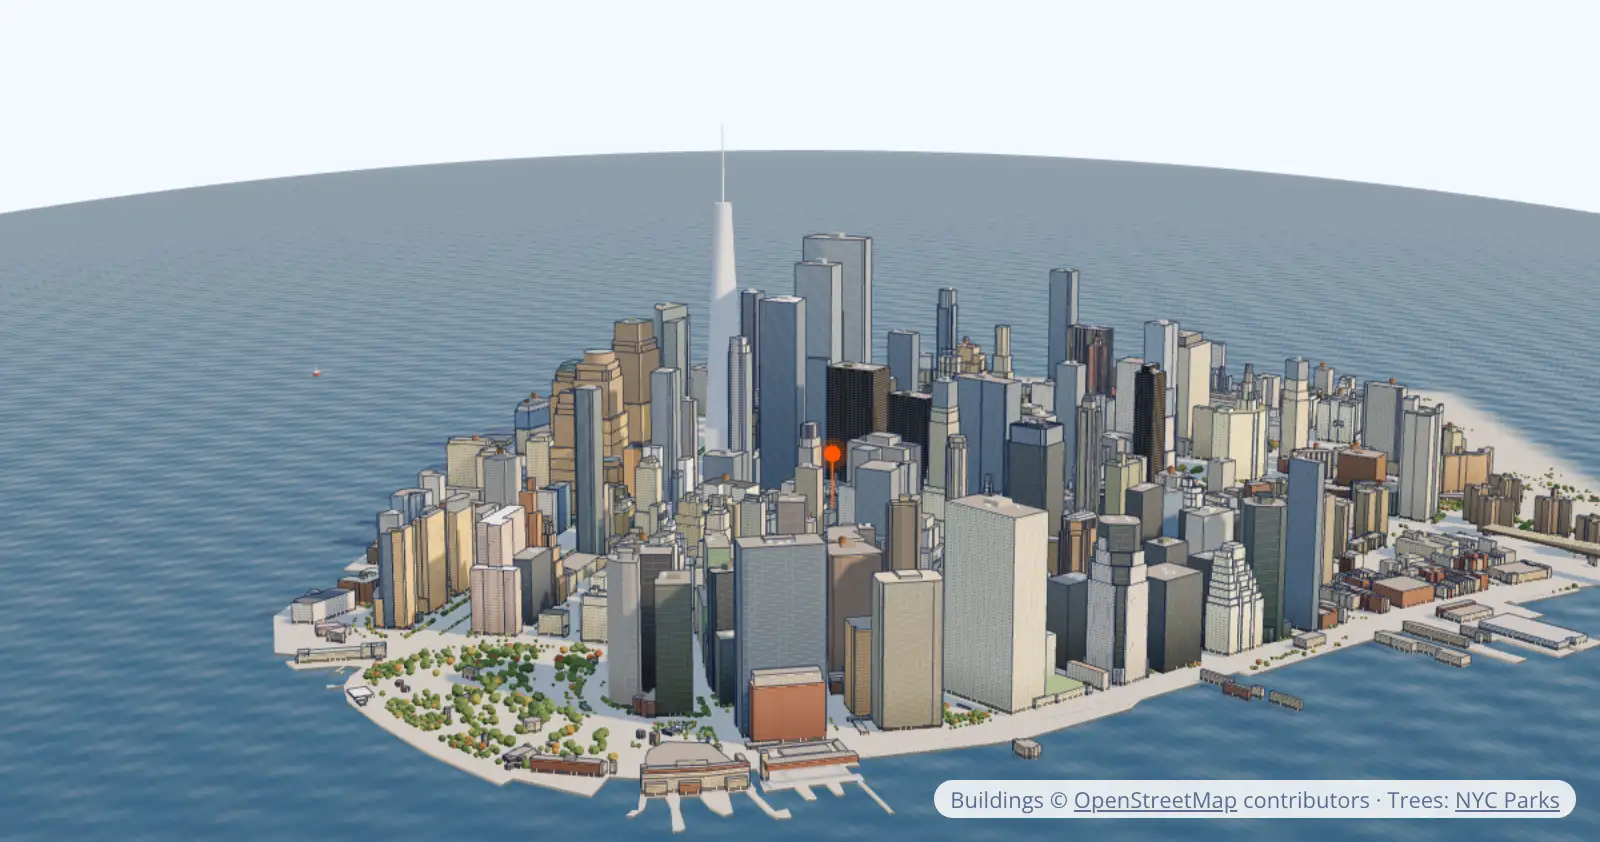
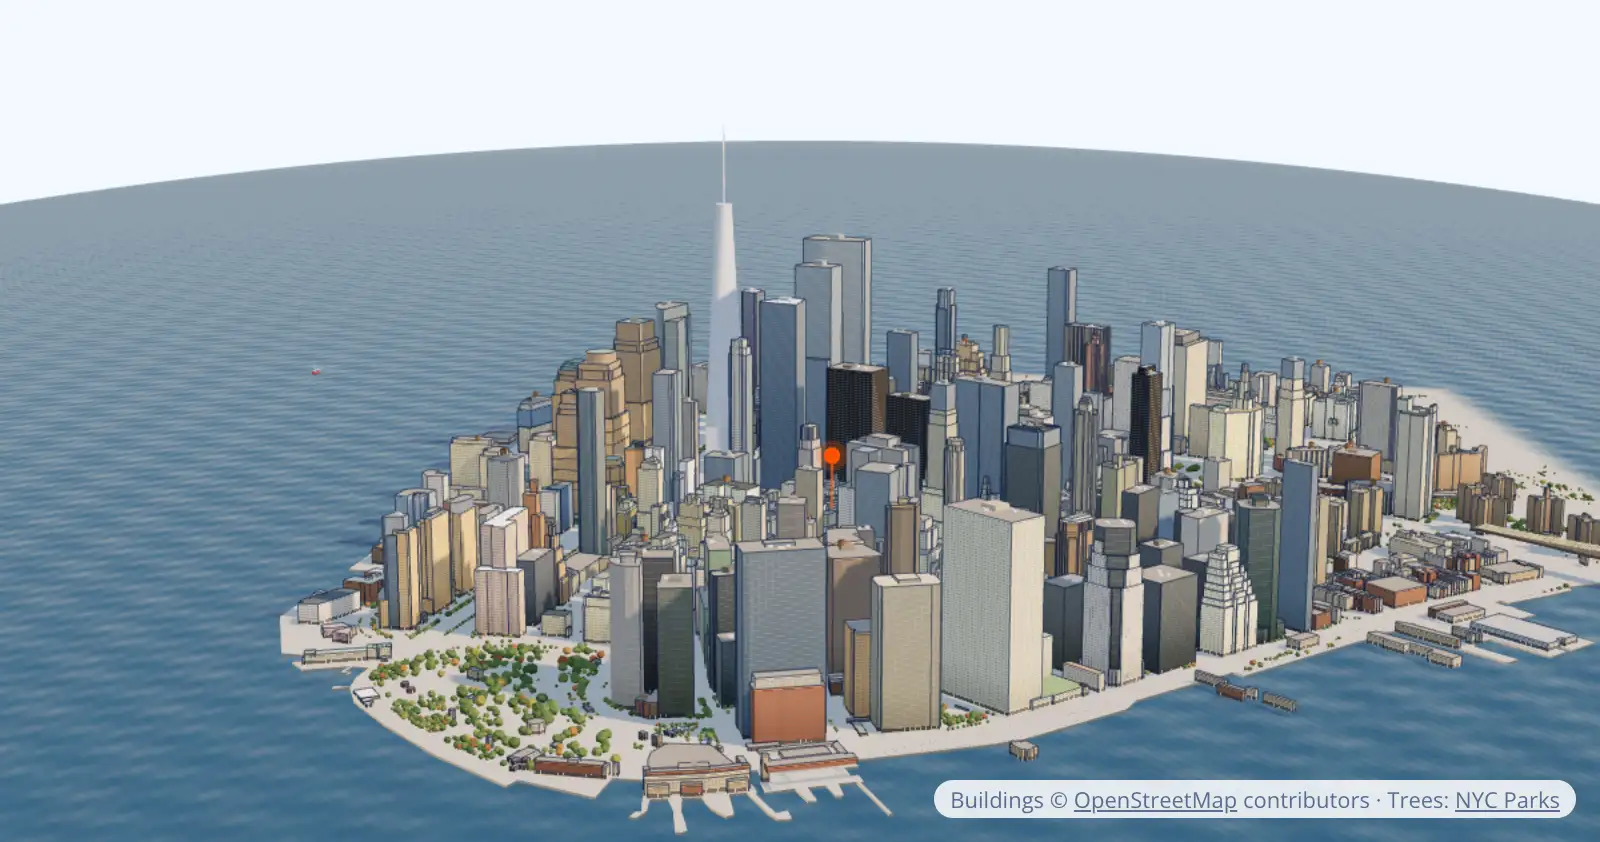
iter-141: v9 hero uses the live 3D city

diff --git a/src/v/v9.js b/src/v/v9.js
@@ -3,7 +3,7 @@
 import './base.css';
 import './sections.css';
 import './v9.css';
-import { boot, header, footer, BASE, C, logo, icon, quote, pct, usd, chartSVG, sparkFor, $$ } from './kit.js';
+import { boot, header, footer, BASE, C, logo, icon, quote, pct, usd, chartSVG, sparkFor, $, $$, reducedMotion } from './kit.js';
 import * as S from './sections.js';
 
 // Clouds. CSS has no modulo, so each cloud's place is worked out here and handed over as custom properties:
@@ -71,7 +71,7 @@ const html = `${header()}
     <div class="hero-form"><p class="form-title"${heroForm.replace('<a class="tlink hero-how"', `${trust}${pt1}<a class="tlink hero-how"`)}</div>
     ${heroHL}
   </div></div>
-  ${land('', chip('GOOGL', 'Alphabet', 'google', 'chip-a') + chip('NVDA', 'NVIDIA', 'nvidia', 'chip-b'))}
+  ${land(' land-hero', '<canvas class="land-canvas"></canvas>' + chip('GOOGL', 'Alphabet', 'google', 'chip-a') + chip('NVDA', 'NVIDIA', 'nvidia', 'chip-b'))}
 </section>
 ${sky(brands, 4, 3, 24, 44)}
 ${S.product()}
@@ -87,6 +87,21 @@ ${footer()}`;
 
 boot('v9', html);
 S.setupSections();
+
+// ---------- live 3D city in the hero band on desktop (same module as Live/v5); phones and no-WebGL keep the render
+const hero = $('.hero'), mq = matchMedia('(max-width: 900px)');
+let started = false;
+function startCity() {
+  if (started || mq.matches) return;
+  started = true;
+  try { new PerformanceObserver((l, o) => { if (l.getEntriesByName('city:built').length) { hero.classList.add('is-live'); o.disconnect(); } }).observe({ type: 'mark', buffered: true }); } catch { /* canvas paints over the image */ }
+  import('../city.js')
+    .then(({ createCity }) => { if (!createCity({ canvas: $('.land-canvas'), reducedMotion, withClouds: false })) hero.classList.add('no-webgl'); })
+    .catch(() => hero.classList.add('no-webgl'));
+}
+const idle = () => ('requestIdleCallback' in window ? requestIdleCallback(startCity, { timeout: 1500 }) : setTimeout(startCity, 200));
+if (document.readyState === 'complete') idle(); else addEventListener('load', idle, { once: true });
+mq.addEventListener('change', idle);
 
 // One primary action per view: the header's "Start investing" steps aside while a lead form is on screen.
 const inView = new Set();

diff --git a/src/v/v9.css b/src/v/v9.css
@@ -93,9 +93,13 @@ main > section > .vw { position: relative; z-index: 1; }
 /* the city landscape (hero and closing), aspect-correct, fading into the sky at top and bottom */
 .land { position: relative; height: 460px; margin-top: -40px; -webkit-mask-image: linear-gradient(180deg, transparent 0, #000 28%, #000 70%, transparent 100%); mask-image: linear-gradient(180deg, transparent 0, #000 28%, #000 70%, transparent 100%); }
 .land img { width: 100%; height: 100%; object-fit: cover; object-position: 50% 60%; }
+.land-canvas { position: absolute; left: 0; bottom: -9%; z-index: 1; width: 100%; height: calc(100% / 0.425); } /* same framing as v5: the city is framed for a ~1040 px stage */
+.land img { transition: opacity 0.6s ease-out; }
+.hero.is-live .land-hero img { opacity: 0; }
+.hero.no-webgl .land-canvas { display: none; }
 .land-end { height: clamp(240px, 30vw, 440px); margin-top: -72px; }
 .land-end img { object-position: 50% 58%; }
-.chip { position: absolute; display: flex; align-items: center; gap: 12px; padding: 8px 16px 8px 8px; border-radius: var(--r-md); background: rgba(255, 255, 255, 0.92);
+.chip { position: absolute; z-index: 2; display: flex; align-items: center; gap: 12px; padding: 8px 16px 8px 8px; border-radius: var(--r-md); background: rgba(255, 255, 255, 0.92);
   box-shadow: var(--ring), 0 24px 40px -24px rgba(4, 33, 63, 0.55); animation: float9 7s ease-in-out infinite; }
 .chip-a { left: 6%; top: 30%; } .chip-b { right: 6%; top: 16%; animation-delay: -3.5s; }
 .chip-logo { display: grid; place-items: center; width: 40px; height: 40px; border-radius: var(--r-sm); background: #fff; box-shadow: 0 0 0 1px var(--line); color: var(--ink); }   /* 20 − 8 */
@@ -239,6 +243,8 @@ main > section > .vw { position: relative; z-index: 1; }
   .hero-hl li:nth-child(odd) { border-left: 0; }
   .hero-hl b { font-size: 28px; }
   .land { height: 280px; margin-top: -24px; }
+  .land-canvas { display: none; }
+  .hero.is-live .land-hero img { opacity: 1; }
   .chip-a { left: 16px; top: 30%; } .chip-b { display: none; }
   .h3 { margin-top: 72px; }
   .whyus { grid-template-columns: minmax(0, 560px); }
